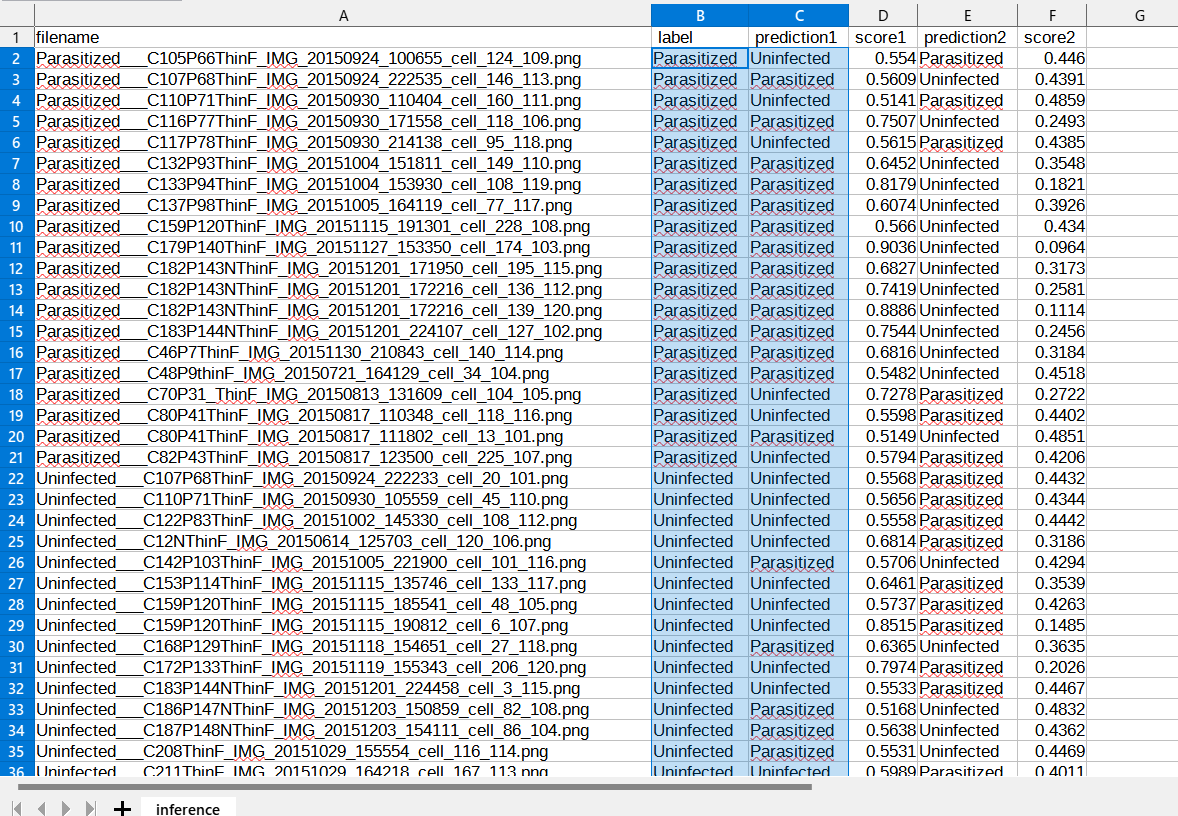
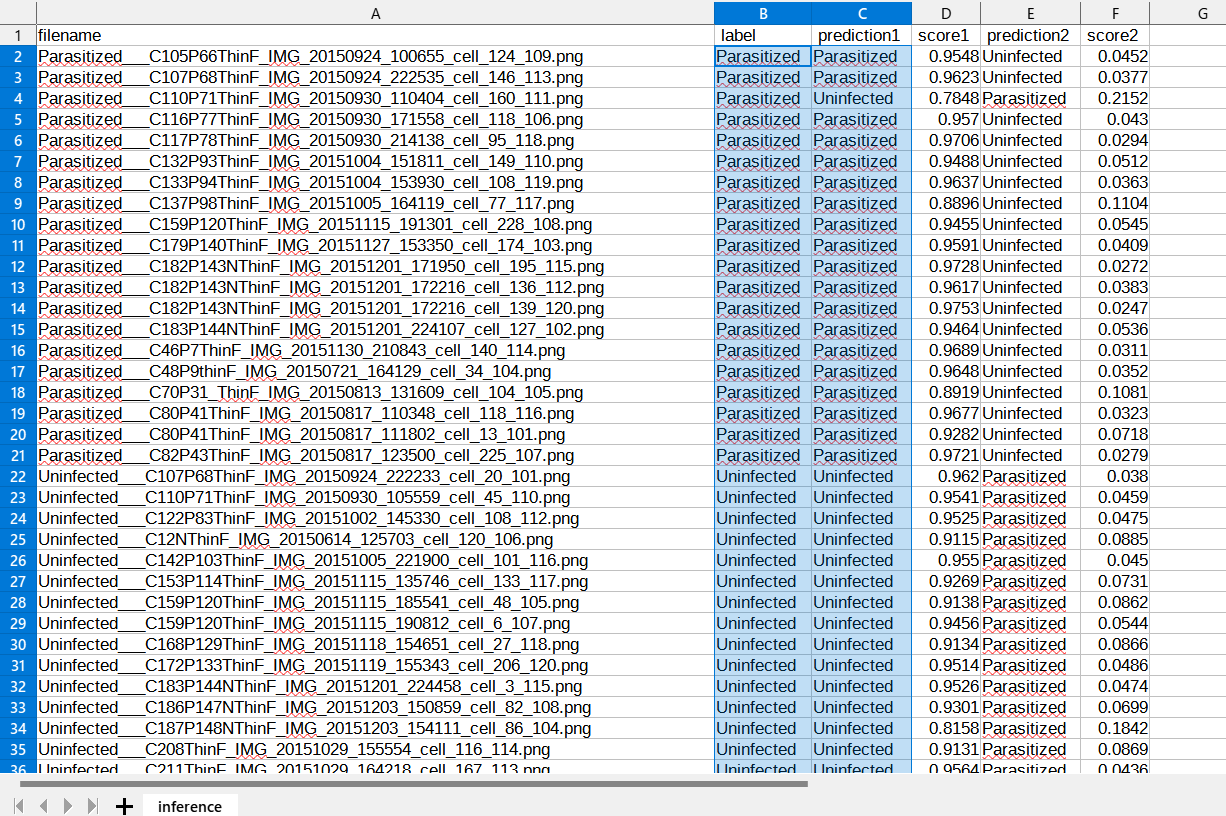
Updated EfficientNetV2Inferencer.py.

diff --git a/EfficientNetV2Inferencer.py b/EfficientNetV2Inferencer.py
@@ -150,26 +150,14 @@ class EfficientNetV2Inferencer:
       print("\n--- image_path {}".format(FLAGS.image_path))
       image_size  = FLAGS.eval_image_size
       for image_file in image_files:
-        
-        image = tf.io.read_file(image_file)
-
-        image = preprocessing.preprocess_image(
-          image, 
-          image_size  = FLAGS.eval_image_size, 
-          is_training = False)
-        # A tensor with a length 1 axis inserted at index axis.
-        #image  = image.astype('float32')/255.0
-        """
-        #PNG file -> color_mode='rgba'
-        #PIL image instance
+                
         image = tf.keras.preprocessing.image.load_img(image_file, target_size=(image_size, image_size),
-            color_mode = 'rgba',
+            color_mode = 'rgb',
             interpolation='nearest')
 
         image = tf.keras.preprocessing.image.img_to_array(image)
-        #image = (image - 128.) / 128.
-        """
-
+        image = image*1.0/255.0
+      
         image  = tf.expand_dims(image, 0)
         
         logits = self.model(image, training=False)
